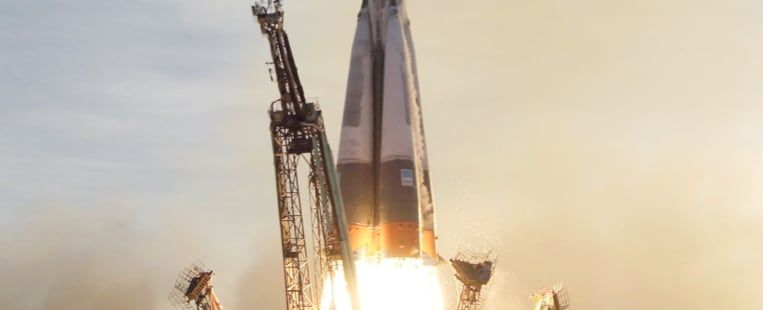
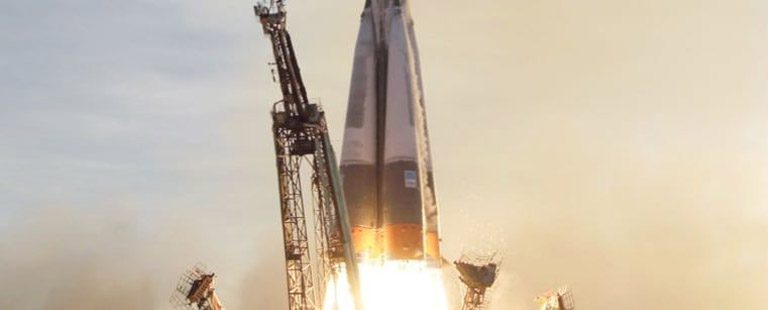
Create transitions for changing data with JS

diff --git a/src/js/modules/interactive-data.js b/src/js/modules/interactive-data.js
@@ -3,7 +3,7 @@ import {
     createMovingStars
 } from "./moving-stars.js";
 
-import { isDesktopMode } from "../utils/functions.js";
+import { isDesktopMode, replaceWithTransition } from "../utils/functions.js";
 
 export default function fillPage(
     jsonDataPath,
@@ -11,6 +11,11 @@ export default function fillPage(
     crewSlideInterval,
     crewSlideDelay
 ) {
+    const TRANSITION_CLASS_TEXT = 'js-transition-text';
+    const TRANSITION_CLASS_IMAGE = 'js-transition-image';
+    const TRANSITION_CLASS_IMAGE_PLANET = 'js-transition-image-planet';
+    const TRANSITION_CLASS_IMAGE_TECHNOLOGY = 'js-transition-image-technology';
+
     const currentPath = window.location.pathname; // '/pagename.html'
     const pageName = currentPath.split('/').pop().split('.')[0]; // 'pagename'
     
@@ -42,7 +47,7 @@ export default function fillPage(
 
                 manageChoosePlanetButtons();
 
-                // moving stars
+                // inset moving stars
                 const space = createStarsLayout();
                 document.body.appendChild(space);
                 createMovingStars(space);
@@ -145,11 +150,18 @@ export default function fillPage(
             const relevantData = getRelevantData(requiredName);
 
             // insert new data
-            populateTargetElements(relevantData);
+            populateTargetElements(relevantData, 'transition');
+            transitionAdditionalElements('.details-title');
         }
 
         function onKeydown(event) {
-            if (event.key === 'ArrowLeft' || event.key === 'ArrowRight') {
+
+            if (
+                event.key === 'ArrowLeft' ||
+                event.key === 'ArrowRight' ||
+                event.key === 'ArrowUp' ||
+                event.key === 'ArrowDown'
+            ) {
 
                 // show arrows
                 isTabNavigation = true;
@@ -172,7 +184,8 @@ export default function fillPage(
                     const relevantData = getRelevantData(requiredName);
 
                     // isert the data
-                    populateTargetElements(relevantData);
+                    populateTargetElements(relevantData, 'transition');
+                    transitionAdditionalElements('.details-title');
                 }, 10)
             }
         }
@@ -221,7 +234,7 @@ export default function fillPage(
         });
 
         function changeSlide(index) {
-            populateTargetElements(thisPageData[index]);
+            populateTargetElements(thisPageData[index], 'transition');
             SwitchActiveButton(buttonsNodeList[index]);
             currentSlideIndex = index;
         }
@@ -266,7 +279,7 @@ export default function fillPage(
             const index = Array.from(buttonsNodeList).indexOf(button);
 
             if (index !== -1) { // manage active buttons only
-                populateTargetElements(thisPageData[index]);
+                populateTargetElements(thisPageData[index], 'transition');
                 switchActiveButton(event);
             }
         }
@@ -277,6 +290,7 @@ export default function fillPage(
             switchTabindexesInButtonsBlock(targetButton, buttonsNodeList);
         }
     }
+
     
     function toggleClassesInButtonsBlock(targetButtonElement, buttonsNodeList, className) {
         Array.from(buttonsNodeList).forEach((button)=> {
@@ -288,6 +302,7 @@ export default function fillPage(
             };
         })
     }
+
 
     function switchTabindexesInButtonsBlock(targetButtonElement, buttonsNodeList) {
         Array.from(buttonsNodeList).forEach((button)=> {
@@ -306,6 +321,7 @@ export default function fillPage(
             }
         })
     }
+
 
     function manageIMGResize() {
         // some additional logic here to trigger
@@ -332,34 +348,75 @@ export default function fillPage(
         });
     }
 
-    function populateTargetElements(relevantData) {
+
+    function populateTargetElements(relevantData, transition) {
 
         targetElements.forEach((element) => {
-                
+
             if (element.id === 'image') {
 
                 if (relevantData.images.png) { // in data.json different img extentions
-                    // choose image extention
+
                     const imgExtention = webpSupport ? 'webp' : 'png';
-                    element.src = relevantData.images[imgExtention];
-                    // set alt
-                    element.alt = `${relevantData.name} photo`;
+                    const replaceImage = () => {
+                        element.src = relevantData.images[imgExtention];
+                        element.alt = `${relevantData.name} photo`;
+                    };
+
+                    if(transition) {
+                        const imgClass = (element.dataset.jsFill === 'planet-image') ?
+                            TRANSITION_CLASS_IMAGE_PLANET :
+                            TRANSITION_CLASS_IMAGE;
+
+                        replaceWithTransition(element, imgClass, replaceImage);
+                    } else {
+                        replaceImage();
+                    };
                 }
 
                 if (relevantData.images.portrait) { // in data.json different img ratio
 
-                    // get breakpoint to change img size
-                    element.src = (isDesktopMode()) ?
-                        relevantData.images.portrait :
-                        relevantData.images.landscape;
+                    const replaceImage = () => {
+                        element.src = (isDesktopMode()) ?
+                            relevantData.images.portrait :
+                            relevantData.images.landscape;
+    
+                        element.alt = `${relevantData.name} photo`;
+                    };
 
-                    // set alt
-                    element.alt = `${relevantData.name} photo`;
+                    if(transition) {
+                        const imgClass = (isDesktopMode()) ?
+                        TRANSITION_CLASS_IMAGE :
+                        TRANSITION_CLASS_IMAGE_TECHNOLOGY;
+
+                        replaceWithTransition(element, imgClass, replaceImage);
+                    } else {
+                        replaceImage();
+                    };
                 }
 
             } else { // text data
-                element.innerText = relevantData[element.id];
+
+                if(transition) {
+                    replaceWithTransition(element, TRANSITION_CLASS_TEXT, replaceText);
+                } else {
+                    replaceText();
+                }
+
+                function replaceText() {
+                    element.innerText = relevantData[element.id];
+                }
             }
+        })
+    }
+    
+
+    function transitionAdditionalElements(...classList) {
+        classList.forEach(className => {
+            
+            document.querySelectorAll(className).forEach(elem => {
+                replaceWithTransition(elem, 'js-transition-text');
+            });
         })
     }
 }

diff --git a/src/js/utils/functions.js b/src/js/utils/functions.js
@@ -13,12 +13,35 @@ export function randomInteger(min, max) {
 }
 
 
+export function replaceWithTransition(element, className, callback) {
+    const TRANSITION_TIME = 400;
+    const DELAY = 200;
+    
+    // 1 start transition
+    setTransitionTemperory(element, TRANSITION_TIME);
+    element.classList.add(className);
+
+    // 2 change data in element
+    if(callback) {
+        setTimeout(() => {
+            callback();
+        }, TRANSITION_TIME);
+    }
+
+    // 3 start back transition
+    setTimeout(() => {
+        setTransitionTemperory(element, TRANSITION_TIME);
+        element.classList.remove(className);
+    }, TRANSITION_TIME + DELAY);
+}
+
+
 export function setTransitionTemperory(element, time, transitionProperty) { // time in sec
 
     if (transitionProperty) {
-        element.style.transition = `${transitionProperty} ${time}s`;
+        element.style.transition = `${transitionProperty} ${time / 1000}s`;
     } else {
-        element.style.transition = `${time}s`;
+        element.style.transition = `${time / 1000}s`;
     }
 
     element.transitionMode = transitionProperty;
@@ -26,7 +49,7 @@ export function setTransitionTemperory(element, time, transitionProperty) { // t
     setTimeout(() => {
         element.transitionMode = null;
         element.style.transition = '';
-    }, time * 1000);
+    }, time);
 }
 
 

diff --git a/src/js/modules/mobile-menu.js b/src/js/modules/mobile-menu.js
@@ -73,7 +73,7 @@ export function mobileMenu() {
                 sideMenu.hidden = true;
             } else {
                 setTimeout(() => sideMenu.hidden = true, setup.transitionTime * 1000);
-                setTransitionTemperory(sideMenu, setup.transitionTime);
+                setTransitionTemperory(sideMenu, setup.transitionTime * 1000);
             }
             sideMenu.style.transform = 'translateX(100%)';
             sideMenu.classList.remove('opened');
@@ -87,7 +87,7 @@ export function mobileMenu() {
                 sideMenu.classList.add('opened');
             } else {
                 setTimeout(() => {
-                    setTransitionTemperory(sideMenu, setup.transitionTime);
+                    setTransitionTemperory(sideMenu, setup.transitionTime * 1000);
                     sideMenu.style.transform = '';
                     sideMenu.classList.add('opened');
                 }, setup.shortDelay);

diff --git a/src/scss/pages/crew.scss b/src/scss/pages/crew.scss
@@ -83,17 +83,12 @@
         position: relative;
         
         @include set(
-            width,
-            rem(177), rem(456), rem(568)
+            height,
+            rem(223), rem(532), 80vh
         );
 
         @include breakpoint(medium) {
             bottom: -4px;
-        };
-
-        @include breakpoint(large) {
-            height: 80vh;
-            width: auto;
         };
     }
 

diff --git a/src/html/destination.html b/src/html/destination.html
@@ -31,7 +31,7 @@
             <p class="destination__preheader preheader">Pick your destination</p>
     
             <!-- Image -->
-            <img id="image" class="destination__image" src="#" alt="Moon image" data-js-fill>
+            <img id="image" class="destination__image" src="#" alt="Moon image" data-js-fill="planet-image">
         </div>
 
         <!-- Info -->

diff --git a/src/scss/globals/js-data-transitions.scss b/src/scss/globals/js-data-transitions.scss
@@ -1,0 +1,19 @@
+.js-transition-text {
+    opacity: 0;
+    filter: blur(15px);
+    transform: scale(95%);
+}
+
+.js-transition-image {
+    opacity: 0;
+}
+
+.js-transition-image-planet {
+    opacity: 0;
+    transform: rotate(5deg);
+}
+
+.js-transition-image-technology {
+    opacity: 0;
+    transform: scaleY(0%);
+}

diff --git a/src/scss/globals/_index.scss b/src/scss/globals/_index.scss
@@ -1,3 +1,4 @@
 @forward 'boilerplate';
 @forward 'typography';
 @forward 'layout';
+@forward 'js-data-transitions';
